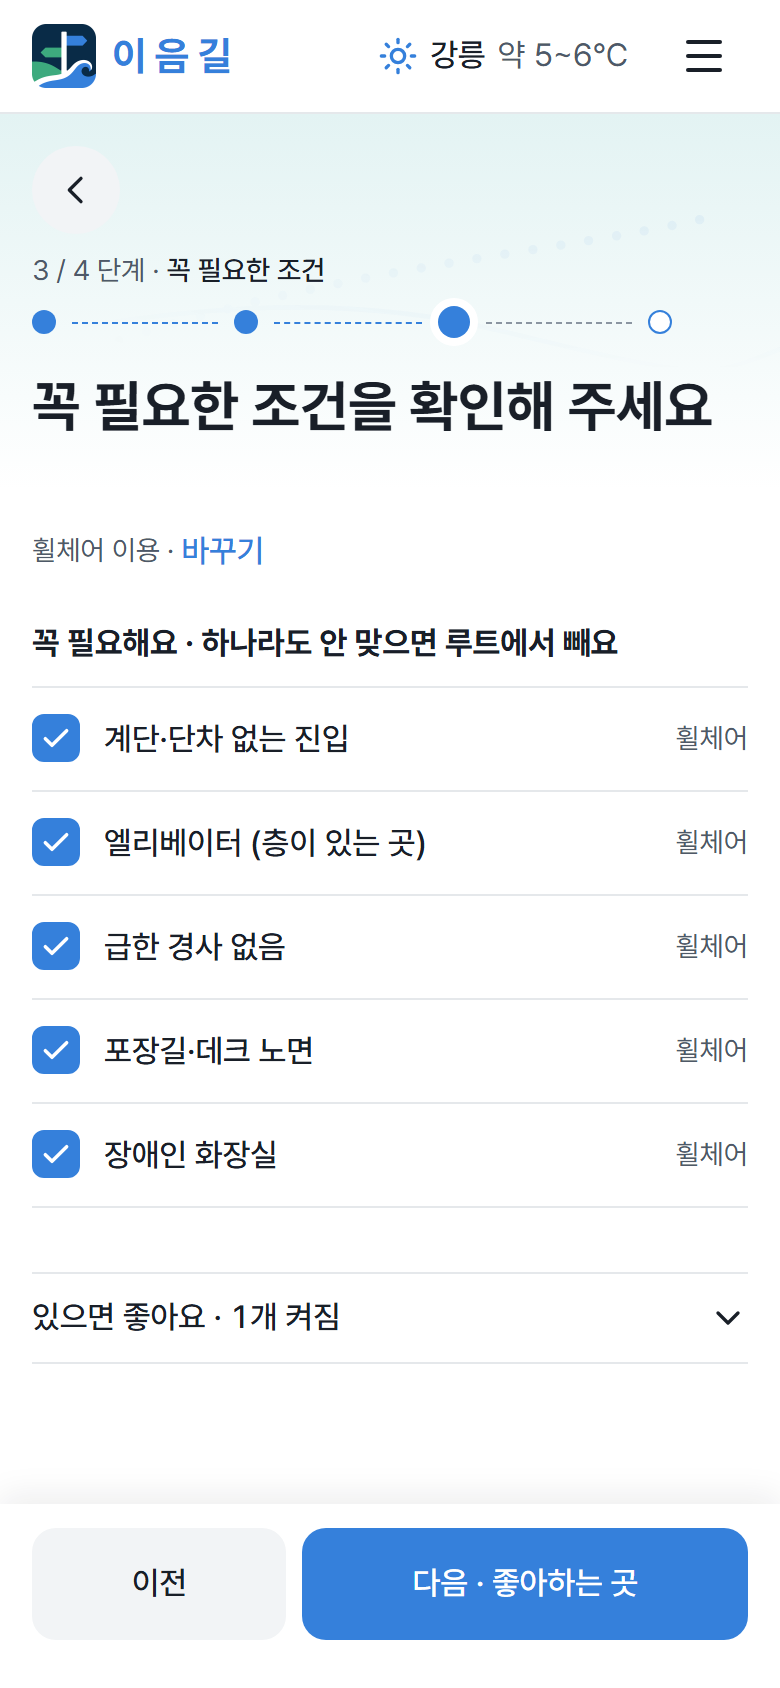
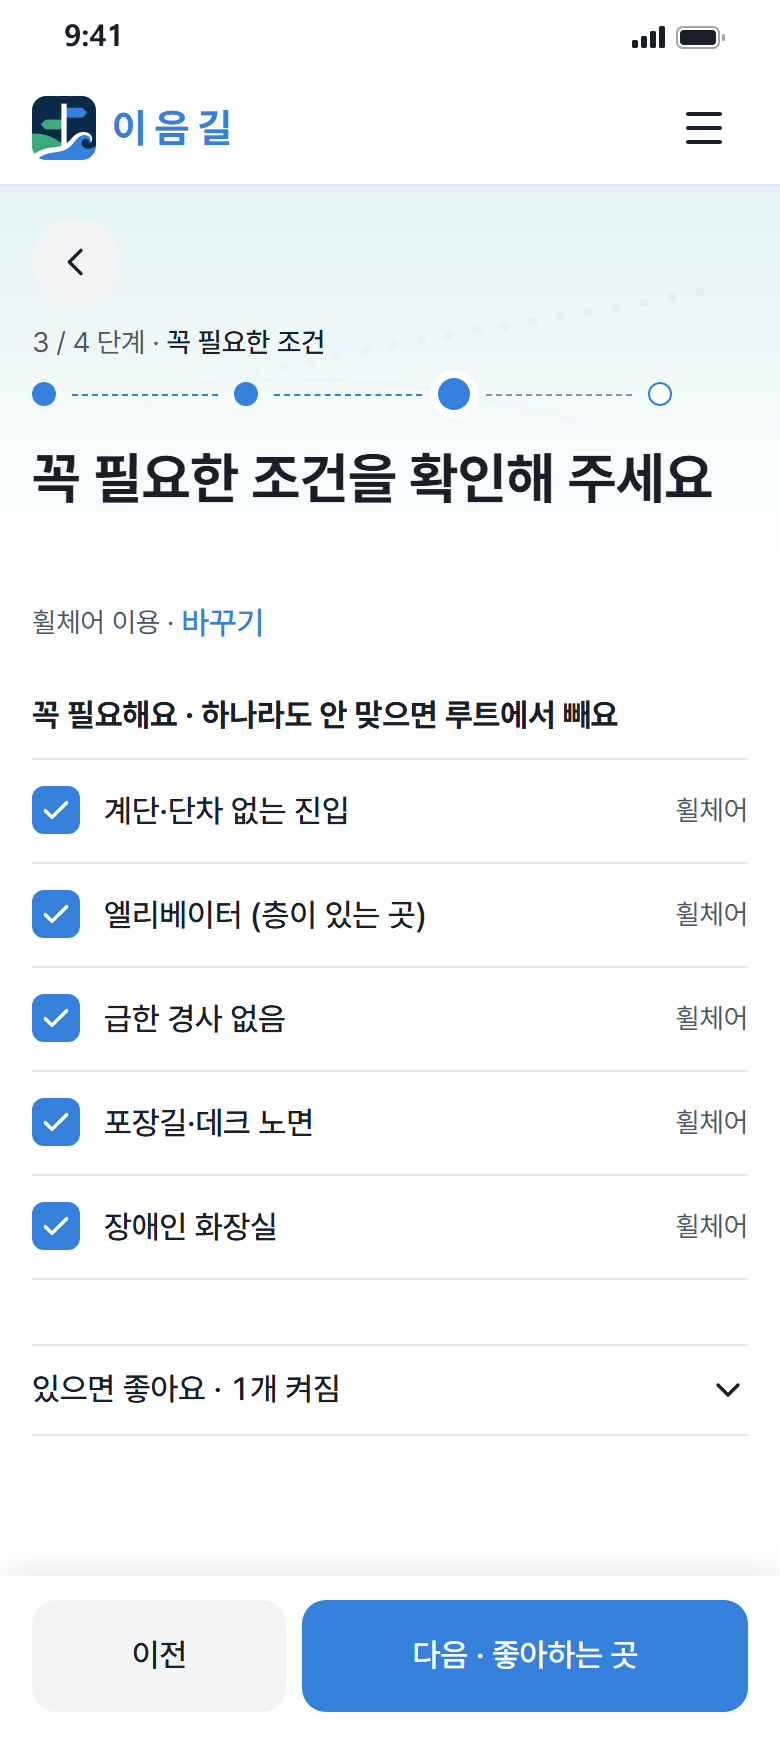
fix: 시작 화면 휴대폰 미리보기의 상태 줄을 그림 안으로 — CSS 띠는 가만히 있고 화면만 바뀌어 분리돼 보이던 문제
- capture.ts withStatusBar: 미리보기 캡처 위에 9:41 · 신호 · 배터리 줄(72px)을 붙여 한 장으로(public/preview/step-*.png, 780×1760)
- IntroSteps·globals.css: 따로 그리던 상태 줄 CSS 제거, 가운데 카메라 알약만 CSS로 겹침

diff --git a/scripts/readme/capture.ts b/scripts/readme/capture.ts
@@ -7,7 +7,7 @@
 // README '디자인 이야기' 그림(docs/readme/design-icons.png)은 `… capture.ts design` — 앱 아이콘 · 바로가기 아이콘 5개(움직이는 층까지 겹친 모습) · 색 세 가지를 한 줄로(서버 불필요).
 // README 맨 위 움직이는 그림(docs/readme/hero.gif)은 `… capture.ts hero` — 시작 화면 히어로의 CSS 움직임을 멈춰 두고 시각을 하나씩 정해 찍은 뒤 sharp로 GIF를 만든다(실시간 녹화가 아니라 끊김 없음).
 // 사용: npm run dev  →  npx tsx scripts/readme/capture.ts
-import { copyFileSync, mkdirSync, readFileSync } from "node:fs";
+import { mkdirSync, readFileSync } from "node:fs";
 import { resolve } from "node:path";
 import { chromium, type Browser, type Page } from "@playwright/test";
 import sharp from "sharp";
@@ -153,6 +153,18 @@ const SHOTS: Shot[] = [
 /** 시작 화면 미리보기에 쓰는 캡처 */
 const PREVIEW: Record<string, string> = { "04-conditions": "step-conditions", "08-result-detail": "step-card", "12-checklist": "step-call" };
 
+/** 시작 화면 휴대폰 미리보기: 캡처(780px 폭) 위에 상태 줄(9:41 · 신호 · 배터리, 흰 바탕 72px = 390 기준 36px)을 붙여 한 장으로.
+ *  예전엔 상태 줄을 CSS 띠로 따로 그려서, 화면이 바뀔 때 그림만 흐려지고 띠는 가만히 있어 둘이 분리돼 보였다(11/25). 가운데 카메라 알약은 CSS(::after) */
+async function withStatusBar(src: string, dst: string) {
+  const W = 780;
+  const H = 72;
+  const bar = Buffer.from(`<svg xmlns="http://www.w3.org/2000/svg" width="${W}" height="${H}"><rect width="${W}" height="${H}" fill="#fff"/>
+    <text x="64" y="46" font-family="Pretendard, 'Malgun Gothic', sans-serif" font-size="30" font-weight="600" fill="#191F28">9:41</text>
+    <g transform="translate(632 26)" fill="#191F28"><rect x="0" y="14" width="6" height="8" rx="1.6"/><rect x="9" y="10" width="6" height="12" rx="1.6"/><rect x="18" y="5" width="6" height="17" rx="1.6"/><rect x="27" y="0" width="6" height="22" rx="1.6"/></g>
+    <g transform="translate(676 26)"><rect x="1" y="1" width="42" height="21" rx="6" fill="none" stroke="#191F28" stroke-opacity=".4" stroke-width="2"/><rect x="4" y="4" width="36" height="15" rx="3.5" fill="#191F28"/><rect x="46" y="8" width="3" height="7" rx="1.5" fill="#191F28" fill-opacity=".4"/></g></svg>`);
+  await sharp(src).extend({ top: H, background: "#ffffff" }).composite([{ input: bar, top: 0, left: 0 }]).png().toFile(dst);
+}
+
 /** 페이지 중간을 찍을 때도 사이트 머리줄(로고 · 메뉴)이 위에 보이게 화면 위에 붙인다 → 머리줄 높이를 돌려준다.
  *  시작 화면 단계 소개의 휴대폰 화면(08·12)이 '확대해서 잘라 낸 그림'처럼 보이지 않게(11/24). 실제 머리줄은 따라오지 않는다 */
 async function pinHeader(p: Page) {
@@ -194,7 +206,7 @@ async function capture(b: Browser, s: Shot) {
   await page.waitForFunction(() => [...document.images].every((i) => i.complete), null, { timeout: 15_000 }).catch(() => {});
   await page.waitForTimeout(300);
   await page.screenshot({ path: `${OUT}/${s.name}.png` });
-  if (PREVIEW[s.name]) copyFileSync(`${OUT}/${s.name}.png`, resolve(`public/preview/${PREVIEW[s.name]}.png`));
+  if (PREVIEW[s.name]) await withStatusBar(`${OUT}/${s.name}.png`, resolve(`public/preview/${PREVIEW[s.name]}.png`));
   await ctx.close();
   console.log(`✓ ${s.name}`);
 }

diff --git a/src/app/globals.css b/src/app/globals.css
@@ -974,29 +974,8 @@ label:has(input[type="checkbox"]) {
 }
 /* 휴대폰 위쪽 상태 줄(가운데 카메라 자리) — 세 화면 모두 실제 휴대폰처럼 보이게(11/24). README 휴대폰 틀(capture.ts frames)과 같은 모양 */
 /* 11/24 고침: 예전엔 원형 그라데이션이라 카메라 자리가 납작한 타원으로 보였다 → 양 끝이 둥근 알약(README 틀 96×26, 상태 줄 36 : 화면 390과 같은 비율).
-   상태 줄(.intro-phone__status)에는 실제 휴대폰처럼 시계·신호·배터리(장식) — 빈 흰 띠가 잘린 것처럼 보였다 */
-.intro-phone__status {
-  display: flex;
-  align-items: center;
-  justify-content: space-between;
-  height: 1.75rem;
-  padding-inline: 1.5rem 1.25rem;
-  background: #fff;
-  color: var(--color-ink);
-  font-size: 0.875rem; /* 화면 글자 14px 하한(디자인 규칙)을 지킨다 — 장식이어도 보이는 글자 */
-  font-weight: 500;
-  line-height: 1;
-  font-variant-numeric: tabular-nums;
-}
-.intro-phone__icons {
-  display: flex;
-  align-items: center;
-  gap: 0.3em;
-}
-.intro-phone__icons svg {
-  height: 0.75em;
-  width: auto;
-}
+   상태 줄(시계·신호·배터리)은 11/25부터 미리보기 그림 안에 있다 */
+/* 11/25: 상태 줄(시계·신호·배터리)은 미리보기 그림 안으로 옮겼다(capture.ts withStatusBar) — CSS 띠는 가만히 있고 그림만 바뀌어 분리돼 보였다 */
 .intro-phone::after {
   content: "";
   position: absolute;
@@ -1012,7 +991,7 @@ label:has(input[type="checkbox"]) {
   display: block;
   width: 100%;
   height: auto;
-  /* 제자리에서 흐리게만(11/24) — 위로 올라오면 가만히 있는 상태 줄 밑으로 사진이 들어가 잘려 보였다 */
+  /* 제자리에서 흐리게만(11/24). 상태 줄도 그림 안에 있어 함께 흐려진다(11/25) */
   animation: intro-screen-fade var(--motion-long) var(--ease-enter);
 }
 @keyframes intro-screen-fade {
@@ -1039,10 +1018,6 @@ label:has(input[type="checkbox"]) {
     border-width: 0.625rem;
     border-radius: 2.75rem;
   }
-  .intro-phone__status {
-    height: 1.875rem;
-    padding-inline: 1.75rem 1.5rem;
-  }
   .intro-phone::after {
     width: 4.25rem;
     height: 1.125rem;
@@ -1051,10 +1026,6 @@ label:has(input[type="checkbox"]) {
 @media (min-width: 1280px) {
   .intro-phone {
     width: 20rem;
-  }
-  .intro-phone__status {
-    height: 2rem;
-    padding-inline: 2rem 1.75rem;
   }
   .intro-phone::after {
     top: 0.34375rem;

diff --git a/src/components/home/IntroSteps.tsx b/src/components/home/IntroSteps.tsx
@@ -228,24 +228,8 @@ export function IntroSteps({ inner }: { inner: string }) {
               {/* 미리보기(figure) 안에는 누르는 곳을 두지 않는다 — 단계 막대 탭·자동 넘김 버튼은 그 바로 아래 */}
               <figure aria-label="결과 화면 미리보기" className="mx-auto flex w-full flex-col items-center">
                 <div id="intro-panel" role="tabpanel" aria-labelledby={`intro-tab-${active}`} className="intro-phone">
-                  {/* 상태 줄(장식): 시계 · 신호 · 배터리. 가운데 카메라 알약은 CSS(::after) */}
-                  <div className="intro-phone__status" aria-hidden="true">
-                    <span>9:41</span>
-                    <span className="intro-phone__icons">
-                      <svg viewBox="0 0 17 11" fill="currentColor">
-                        <rect x="0" y="7" width="3" height="4" rx="0.8" />
-                        <rect x="4.5" y="5" width="3" height="6" rx="0.8" />
-                        <rect x="9" y="2.5" width="3" height="8.5" rx="0.8" />
-                        <rect x="13.5" y="0" width="3" height="11" rx="0.8" />
-                      </svg>
-                      <svg viewBox="0 0 25 12" fill="none">
-                        <rect x="0.5" y="0.5" width="21" height="11" rx="3" stroke="currentColor" opacity="0.4" />
-                        <rect x="2" y="2" width="18" height="8" rx="1.8" fill="currentColor" />
-                        <rect x="23" y="4" width="1.6" height="4" rx="0.8" fill="currentColor" opacity="0.4" />
-                      </svg>
-                    </span>
-                  </div>
-                  <Image key={step.img} src={step.img} width={780} height={1688} sizes="(min-width: 1280px) 20rem, (min-width: 1024px) 17rem, 15rem" alt={step.alt} className="intro-phone__screen" />
+                  {/* 상태 줄(9:41 · 신호 · 배터리)은 그림 안에 함께 있다(11/25, capture.ts withStatusBar) — 화면이 바뀔 때 함께 흐려져 분리돼 보이지 않게. 가운데 카메라 알약은 CSS(::after) */}
+                  <Image key={step.img} src={step.img} width={780} height={1760} sizes="(min-width: 1280px) 20rem, (min-width: 1024px) 17rem, 15rem" alt={step.alt} className="intro-phone__screen" />
                 </div>
                 {!pinned && (
                   // 넓지만 낮은 화면(두 칸, 고정 안 함): 진행 막대는 장식 — 단계는 왼쪽 목록에서 고른다
